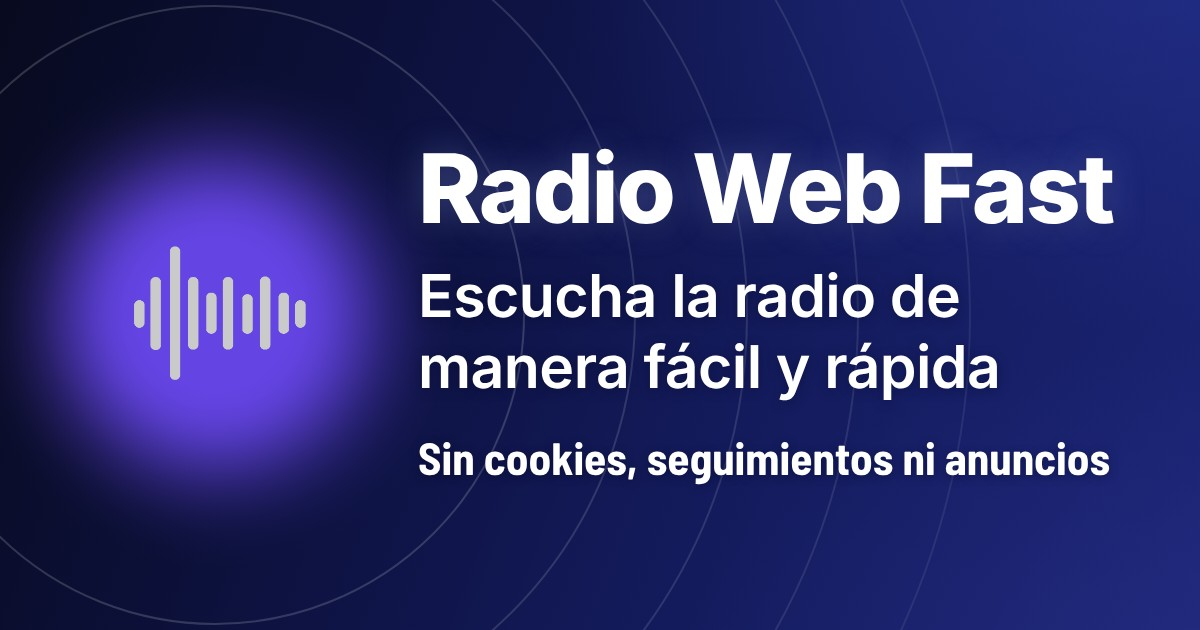
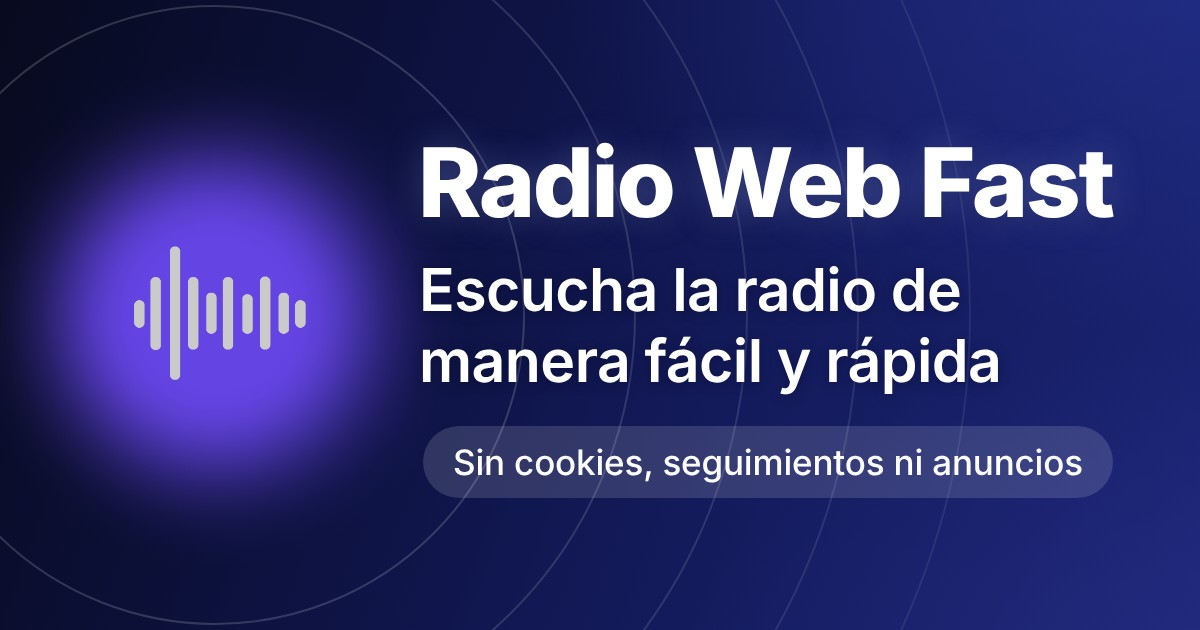
v147: imagen para compartir con "Sin cookies, seguimientos ni anuncios" en píldora
- Píldora como la del buscador de Radio Web Neo (fondo blanco translúcido, Inter media), sin lupa ni borde
- Subtítulo y píldora alineados con el trazo del título (la R grande empieza unos píxeles más a la derecha: 1 px el subtítulo, 5 px la píldora)
- og-radio.jpg?v=6 en la portada, live/ y live_ser/

Claude-Session: https://claude.ai/code/session_01XLSZwhPhUE6roYAeEy4HVU

diff --git a/index.html b/index.html
@@ -22,7 +22,7 @@
   <meta property="og:url" content="https://radioes.pages.dev/">
   <meta property="og:site_name" content="Radio Web Fast">
   <meta property="og:locale" content="es_ES">
-  <meta property="og:image" content="https://radioes.pages.dev/resources/og-radio.jpg?v=5">
+  <meta property="og:image" content="https://radioes.pages.dev/resources/og-radio.jpg?v=6">
   <meta property="og:image:width" content="1200">
   <meta property="og:image:height" content="630">
   <meta property="og:image:alt" content="Radio Web Fast: icono de la app en fondo azul violeta, con el texto «Escucha la radio de manera fácil y rápida. Sin cookies, seguimientos ni anuncios»">
@@ -48,7 +48,7 @@
         "description": "Escucha la radio de manera sencilla y rápida, sin cookies, seguimientos ni anuncios",
         "url": "https://radioes.pages.dev/",
         "isPartOf": { "@id": "https://radioes.pages.dev/#website" },
-        "image": "https://radioes.pages.dev/resources/og-radio.jpg?v=5",
+        "image": "https://radioes.pages.dev/resources/og-radio.jpg?v=6",
         "screenshot": [
           "https://radioes.pages.dev/capturas/wide1.webp",
           "https://radioes.pages.dev/capturas/wide2.webp",

diff --git a/live/index.html b/live/index.html
@@ -22,7 +22,7 @@
   <meta property="og:url" content="https://radioes.pages.dev/live/">
   <meta property="og:site_name" content="Radio Web Fast Live">
   <meta property="og:locale" content="es_ES">
-  <meta property="og:image" content="https://radioes.pages.dev/resources/og-radio.jpg?v=5">
+  <meta property="og:image" content="https://radioes.pages.dev/resources/og-radio.jpg?v=6">
   <meta property="og:image:width" content="1200">
   <meta property="og:image:height" content="630">
   <meta property="og:image:alt" content="Radio Web Fast: icono de la app en fondo azul violeta, con el texto «Escucha la radio de manera fácil y rápida. Sin cookies, seguimientos ni anuncios»">
@@ -37,7 +37,7 @@
     "name": "Radio Web Fast Live",
     "description": "Escucha la radio de manera sencilla y rápida, sin cookies, seguimientos ni anuncios",
     "url": "https://radioes.pages.dev/live/",
-    "image": "https://radioes.pages.dev/resources/og-radio.jpg?v=5",
+    "image": "https://radioes.pages.dev/resources/og-radio.jpg?v=6",
     "applicationCategory": "MultimediaApplication",
     "operatingSystem": "All",
     "inLanguage": "es",

diff --git a/live_ser/index.html b/live_ser/index.html
@@ -22,7 +22,7 @@
   <meta property="og:url" content="https://radioes.pages.dev/live_ser/">
   <meta property="og:site_name" content="Radio Web Fast SER">
   <meta property="og:locale" content="es_ES">
-  <meta property="og:image" content="https://radioes.pages.dev/resources/og-radio.jpg?v=5">
+  <meta property="og:image" content="https://radioes.pages.dev/resources/og-radio.jpg?v=6">
   <meta property="og:image:width" content="1200">
   <meta property="og:image:height" content="630">
   <meta property="og:image:alt" content="Radio Web Fast: icono de la app en fondo azul violeta, con el texto «Escucha la radio de manera fácil y rápida. Sin cookies, seguimientos ni anuncios»">
@@ -36,7 +36,7 @@
     "name": "Radio Web Fast SER",
     "description": "La mejor opción para escuchar la SER sin lios de manera rápida y sencilla",
     "url": "https://radioes.pages.dev/live_ser/",
-    "image": "https://radioes.pages.dev/resources/og-radio.jpg?v=5",
+    "image": "https://radioes.pages.dev/resources/og-radio.jpg?v=6",
     "applicationCategory": "MultimediaApplication",
     "operatingSystem": "All",
     "inLanguage": "es",

diff --git a/sw.js b/sw.js
@@ -1,5 +1,5 @@
 
-const CACHE_NAME = "radio-full-cache-v146";
+const CACHE_NAME = "radio-full-cache-v147";
 
 const FILES_TO_CACHE = [
   "./",
